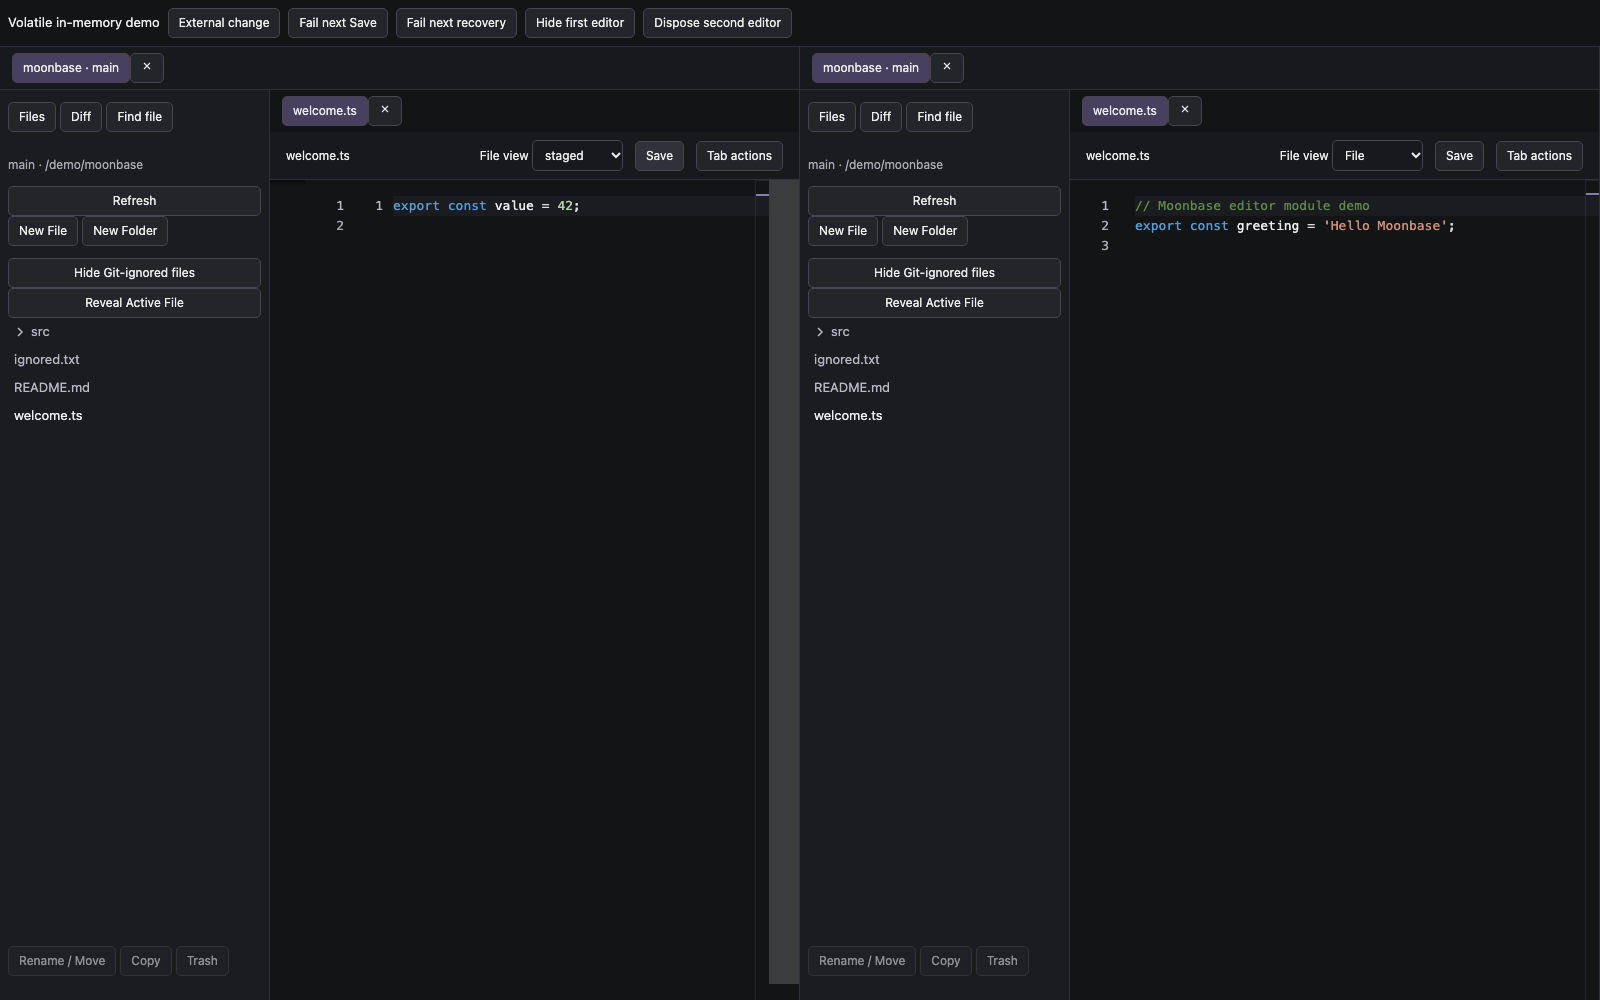
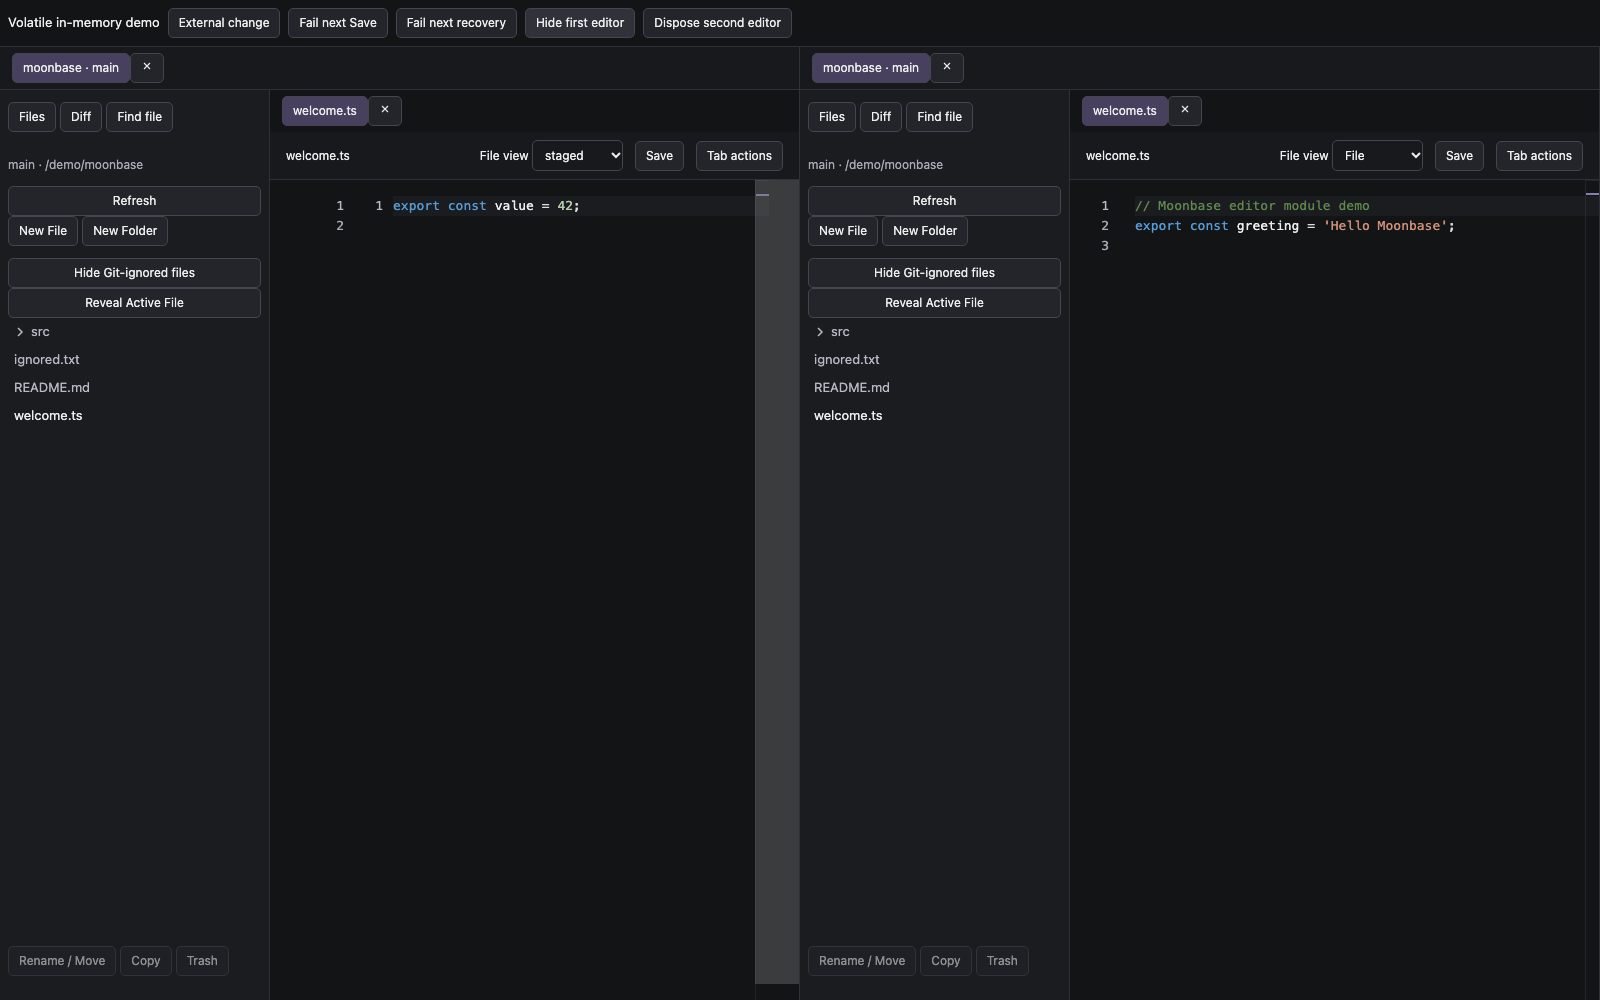
Record inspected editor UI and validation evidence

Changed region(s): [[0.4688, 0.186, 0.5, 0.992]]

diff --git a/packages/editor/evidence/validation.md b/packages/editor/evidence/validation.md
@@ -1,0 +1,29 @@
+# Editor module validation
+
+Validated executable/test source: `def3159f872866af694b52e3739df72eead8b2d4`.
+Exact committed dependency: `68aa035b9c283a65cac6e78ab02865e99882d15b` on `chore/application-coordination` (#2, after foundation #1). The follow-up evidence commit only updates this record, README links and the inspected PNGs; final checks are repeated against the final PR head and reported in its description/handoff.
+
+Checks completed on 2026-11-01:
+
+- `bun run typecheck`, `bun run lint`, `bun run test`: all two-project Nx tasks passed without cache hits. Lint is TypeScript diagnostics, as in the foundation.
+- Editor public tests: **27 passed**, no skips. Real application handlers/runtime adapter plus concrete volatile `WorkspaceService`; no production workspace/filesystem claim.
+- `bun run check:foundation`: 40 frozen source hashes, active shared UI and browser boundary verified.
+- `bun run --cwd packages/editor check:renderer`: browser bundle, **1,569 inputs**; no Node/Electron, Effect runtime, workspace/Pi/SSH implementation or frozen application source in the renderer entry.
+- `bun run --cwd packages/editor build`: passed, compiling StyleX and all five Monaco workers/font assets. Vite reports Monaco chunks over 500 kB; no bundle-size/performance qualification is claimed.
+- `bun run --cwd packages/editor test:ui`: **4/4 passed** in actual Chromium 156 through the development demo. Typed Monaco edits, explicit Save, shared working/diff buffer, independent second instance, external conflict Compare/Cancel, failed Save, close Cancel/Discard, current-source reopen, model/subscription disposal, hide/show retention, lookup history/highlights, new file, constrained layout and keyboard sidebar resize.
+- Impeccable mechanical detector on workbench/Monaco/styles returned `[]`; `git diff --check` passed.
+
+The public tests include dirty conflict baseline retention; immutable lost-response Save retry; Save/Discard/Cancel batch rollback; preview replacement/promotion/reorder; order/reopen/view positions; independent recovery namespaces/CAS; exact host/checkout identities with equal paths; uncertain-operation status with one mutation; dirty copies/Trash preservation; restart; disposal; per-observer acknowledgement; newer live edits during Save/move/copy; and unrelated same-client publication gaps that veto close.
+
+## Inspected Chromium captures
+
+- [two-instances.png](two-instances.png): **1600×1000 CSS px**, two editor instances over the same four-file memory workspace. First saved `export const value = 42;` in staged comparison; second retains its independent original working buffer.
+- [constrained.png](constrained.png): **760×720 CSS px**, first editor after highlighted lookup opens `src/example.ts` and New File creates empty `created.txt`. The demo hides the second column below 1100 px. No document overflow; separator keyboard resize verified.
+
+Both PNGs were opened and visually inspected. Source dataset: `packages/editor/demo/main.tsx`; only in-memory checkout/files and scripted failure controls. The initial T3 preview snapshot timed out twice; Playwright supplied the rendered checks/captures. Initial missing Playwright Chromium was installed; initial textarea-click/implicit-select-label test issues were corrected, with the final four journeys passing.
+
+## Remaining gates
+
+**PENDING HUMAN ACCEPTANCE.** Real workspace/controller fan-in through files/Git/SQLite, desktop integration, native authorized picker/drop/Trash, packaged Electron assets, complete-app keyboard/focus and VoiceOver are unrun in this module worktree. The module adds no Electron app and imports no sibling implementation. The lead must establish those proofs from reviewed committed fan-in; controlled memory/Chromium success does not establish native persistence or package execution. No provider quota, SSH host, legacy state, deployment or GitHub merge was used.
+
+Source/license provenance is in the package README and immutable snapshot manifest. Distribution notices come from the normal package/release inputs under coordinator ownership; this package adds no manually copied notice bundle.

diff --git a/packages/editor/README.md b/packages/editor/README.md
@@ -70,6 +70,8 @@ The demo creates one scoped application runtime with the memory service and two 
 
 Current evidence: 27 public controller scenarios through shared application handlers; four real Chromium UI journeys with actual Monaco typed edits, comparisons, conflict/error feedback, lookup, creation, close/reopen and resource counts; browser bundling checks 1,569 renderer inputs with no privileged modules or feature runtime. Vite+ builds all five Monaco workers. Screenshots are under `evidence/`; test-generated copies live in ignored `test-results/`.
 
+Inspected captures: [two independent editors at 1600×1000](evidence/two-instances.png) and [constrained workbench at 760×720](evidence/constrained.png). The dataset is the four-file volatile demo in `demo/main.tsx`, plus an empty `created.txt` made by the constrained journey. These are actual controlled Chromium module UI, not native/complete-app acceptance. [Validation record and exact dependency anchor](evidence/validation.md).
+
 Save/move/copy facts consume only contiguous known `recoveryChanges` receipts, never the latest loaded CAS revision. Operation identity includes origin client plus ID; acknowledgements include this observing client separately. One editor's acknowledgement cannot hide another observer's pending fact. Controlled tests prove an origin-acknowledged move still reaches another editor with newer live edits, and unrelated same-client publications still veto close/discard. This memory-service evidence does not qualify real filesystem recovery handoffs; real workspace/controller integration and independent technical review remain required in the fan-in.
 
 Packaged/native Electron, real filesystem/Git/SQLite workspace integration, native picker/Trash execution, complete-app keyboard/focus and VoiceOver remain unrun here. Those belong to the workspace/fan-in/desktop proofs. Human acceptance is **PENDING**. No provider, SSH, deployment or legacy-state work is included.
